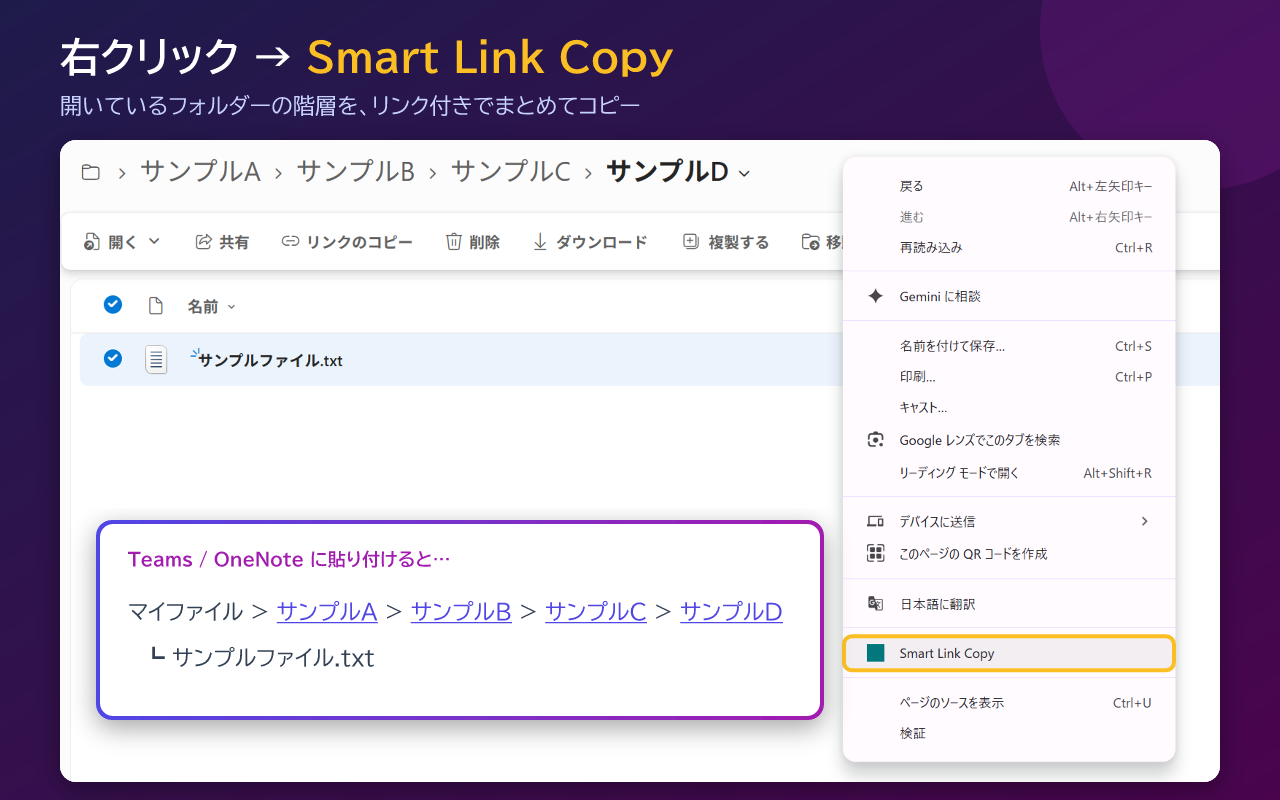
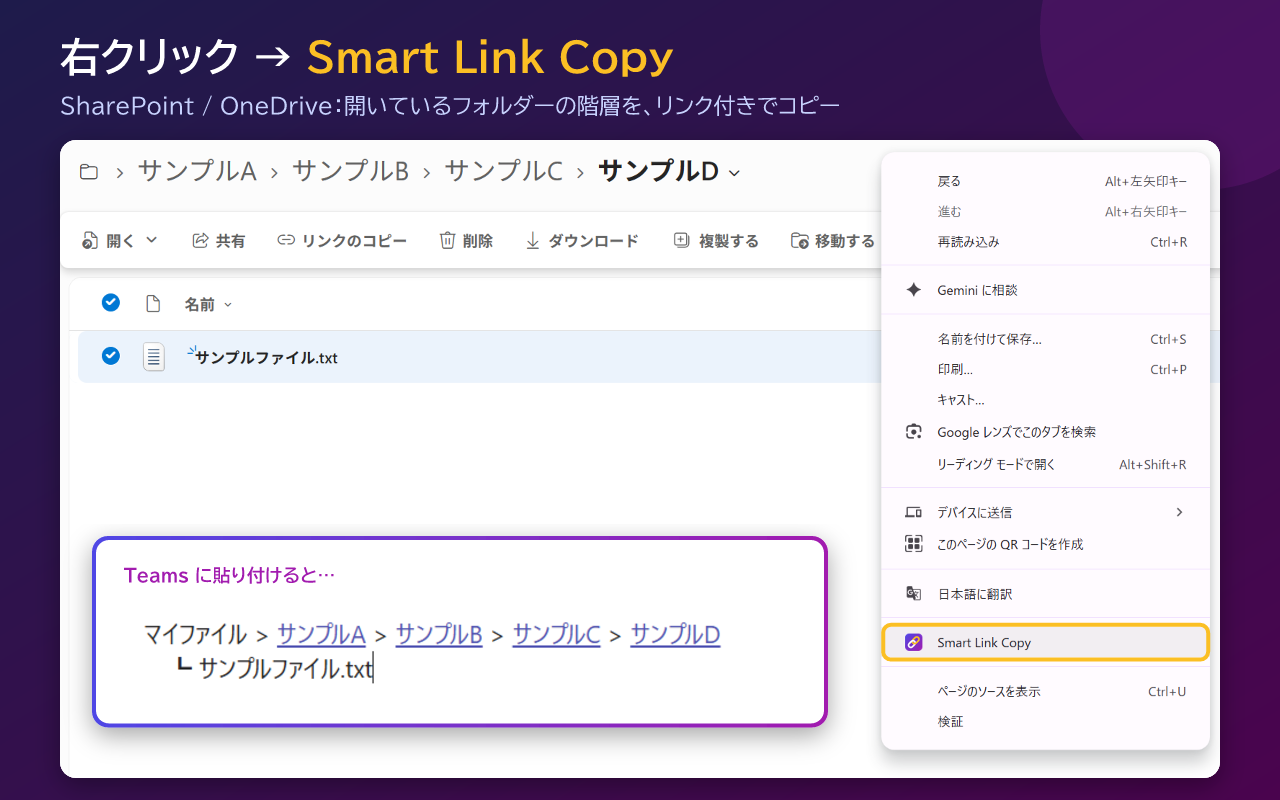
画像を微修正

diff --git a/docs/ideas/chrome-web-store-publishing.md b/docs/ideas/chrome-web-store-publishing.md
@@ -111,8 +111,8 @@ cd dist && zip -r ../smart-link-copy-<version>.zip . && cd ..
 - ~~ストア用の透過アイコンが必要~~ → **作成済み**: `store/store-icon-128.png`(128×128px、絵柄96px+透明余白16px)。
   `public/icons/`のアイコンも同じデザインに差し替えた(原本は`store/*.svg`)
 - ~~440×280pxのタイルが必要~~ → **作成済み**: `store/promo-tile-440x280.png`
-- スクリーンショット: OneDrive版を1枚作成済み(`store/screenshot-1-1280x800.png`。原本は`screenshot-1.svg`と`screenshot-1-source.png`)。
-  Backlog版は任意(最低1枚で要件を満たす)
+- スクリーンショット: 2枚作成済み(`store/screenshot-1-1280x800.png`: OneDrive、`store/screenshot-2-1280x800.png`: Backlog)。
+  実機の画面とTeamsへの実際の貼り付け結果を合成したもの
   - **スクリーンショットに社内のフォルダー名・氏名・課題名などを写さないこと**(公開されるため)
 - 掲載情報は正確・最新・網羅的である必要があり、誤解を招く内容や不完全な内容は違反になる
   - 根拠: [Program Policies(Listing Requirements)](https://developer.chrome.com/docs/webstore/program-policies/policies)
@@ -222,7 +222,7 @@ cd dist && zip -r ../smart-link-copy-<version>.zip . && cd ..
 - [ ] `npm test` / `npm run lint` / `npm run build` が通る
 - [ ] `dist/` の**中身**をZIPにした(`manifest.json` がZIPのルートにある)
 - [x] ストア用アイコン(128×128px、透過余白つき)とプロモーション用タイル(440×280px)を用意した(`store/`)
-- [x] スクリーンショット(1280×800px)を用意した(`store/screenshot-1-1280x800.png`)
+- [x] スクリーンショット(1280×800px)を用意した(`store/screenshot-1-1280x800.png`、`store/screenshot-2-1280x800.png`)
 - [ ] スクリーンショット・説明文に機密情報や個人情報が写っていない
 - [ ] 単一用途・権限の正当性・リモートコード「なし」・データ使用の申告を入力した
 - [ ] プライバシーポリシーのURLを用意した

diff --git a/docs/repository-structure.md b/docs/repository-structure.md
@@ -175,7 +175,7 @@ tests/integration/
 - `promo-tile.svg`: プロモーション用タイル(小)のSVG原本
 - `store-icon-128.png`: ストアアイコン(128×128px、透過余白付き)
 - `promo-tile-440x280.png`: プロモーション用タイル(小)
-- `screenshot-1-1280x800.png`: ストア用スクリーンショット(原本は`screenshot-1.svg`。元の画面写真は`screenshot-1-source.png`)
+- `screenshot-1-1280x800.png` / `screenshot-2-1280x800.png`: ストア用スクリーンショット(OneDrive / Backlog。実機の画面とTeamsへの貼り付け結果を合成)
 
 **依存関係**: ビルド対象外(`dist/`にはコピーしない)。PNGの書き出しはプロジェクトの依存パッケージを増やさないため、
 SVGを変更したときに外部ツール(resvg等)で手動で行う
